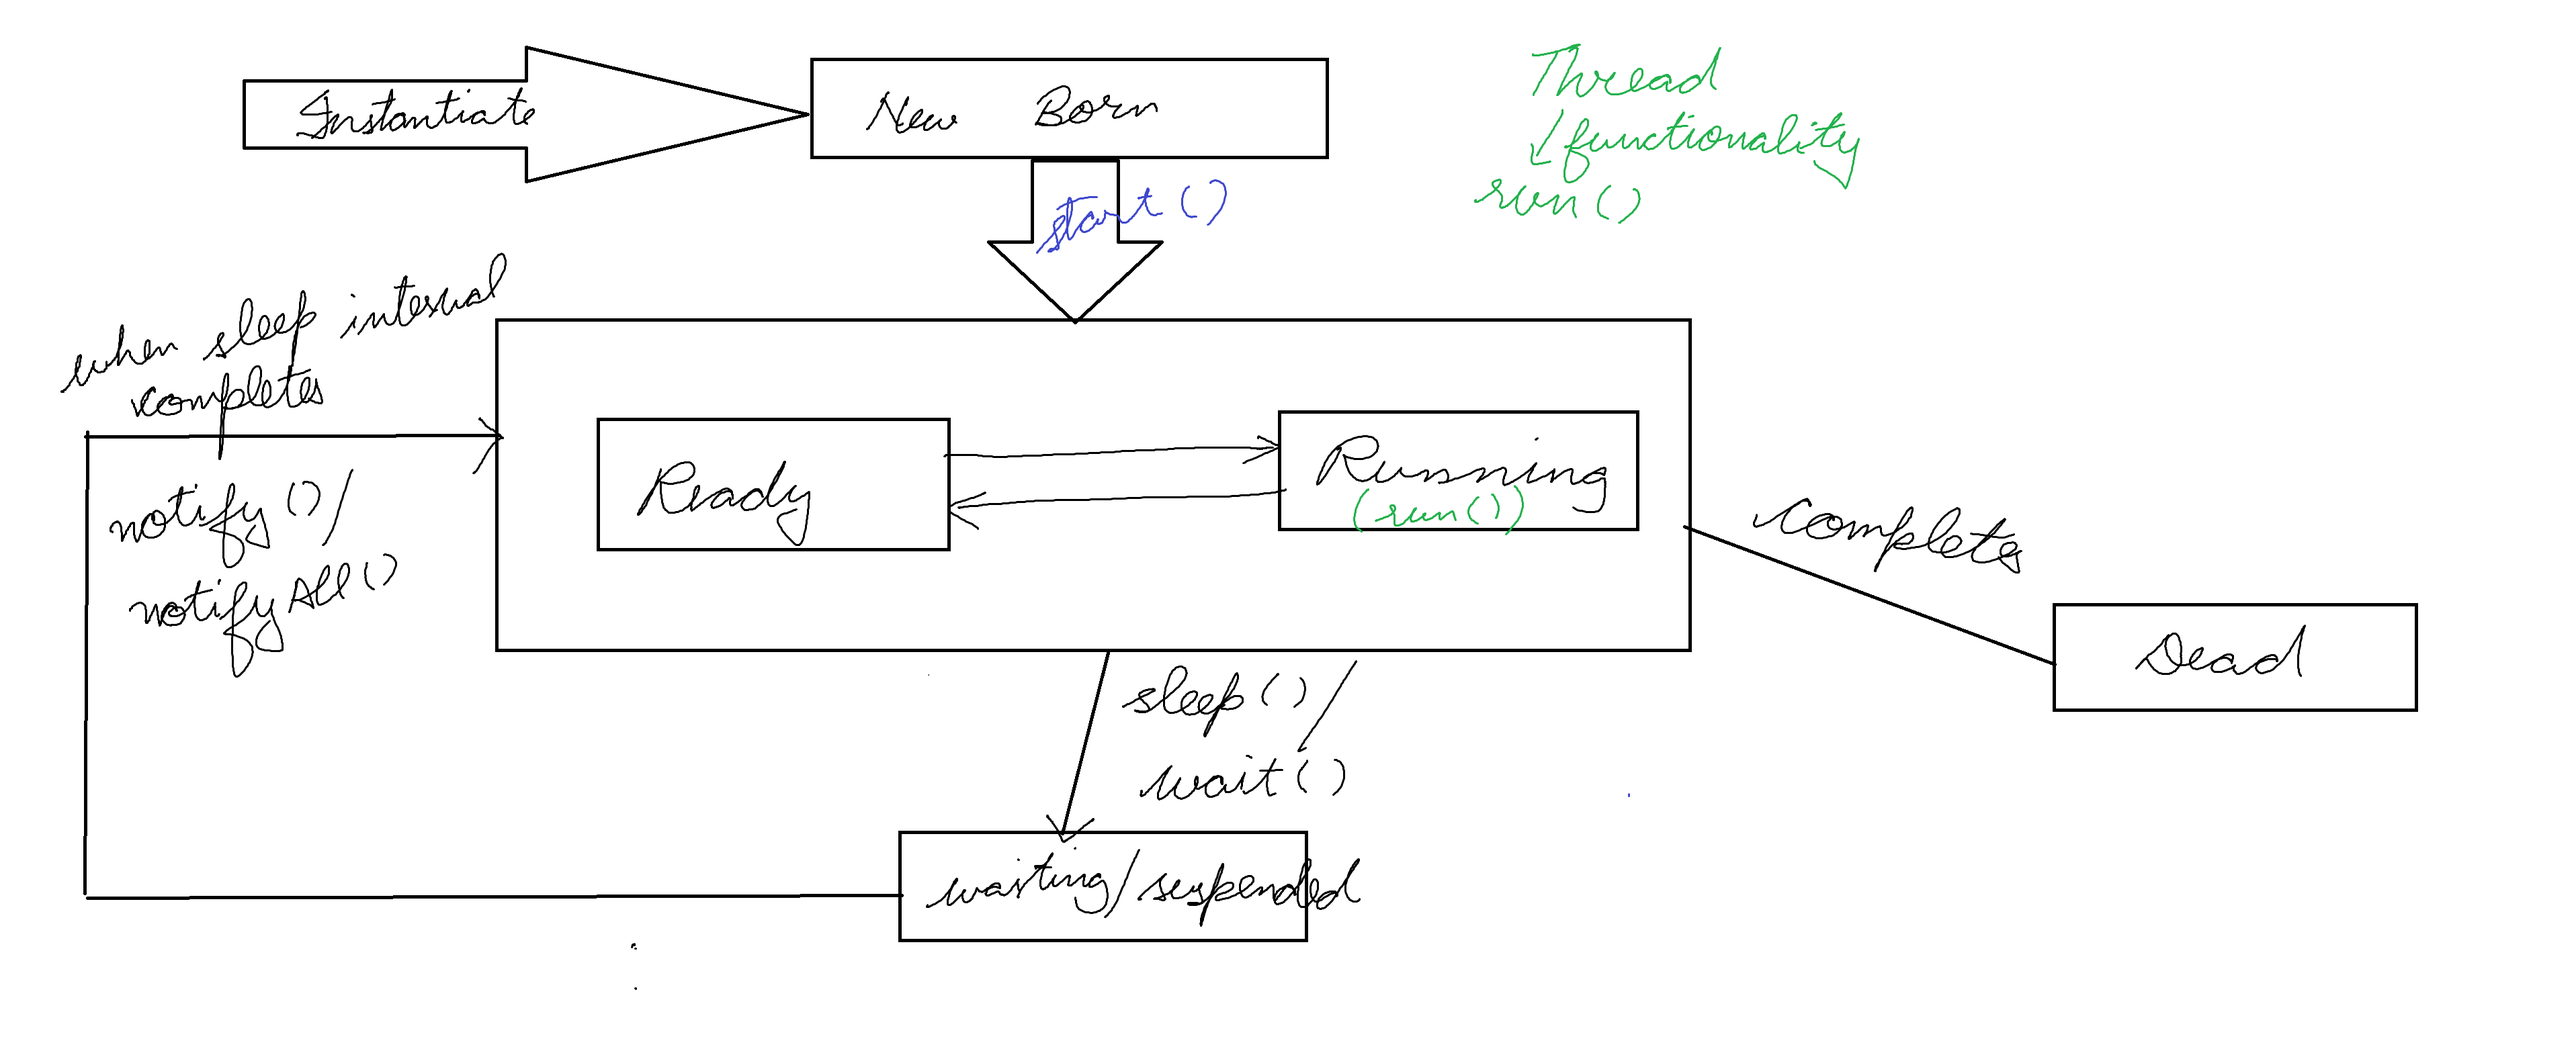
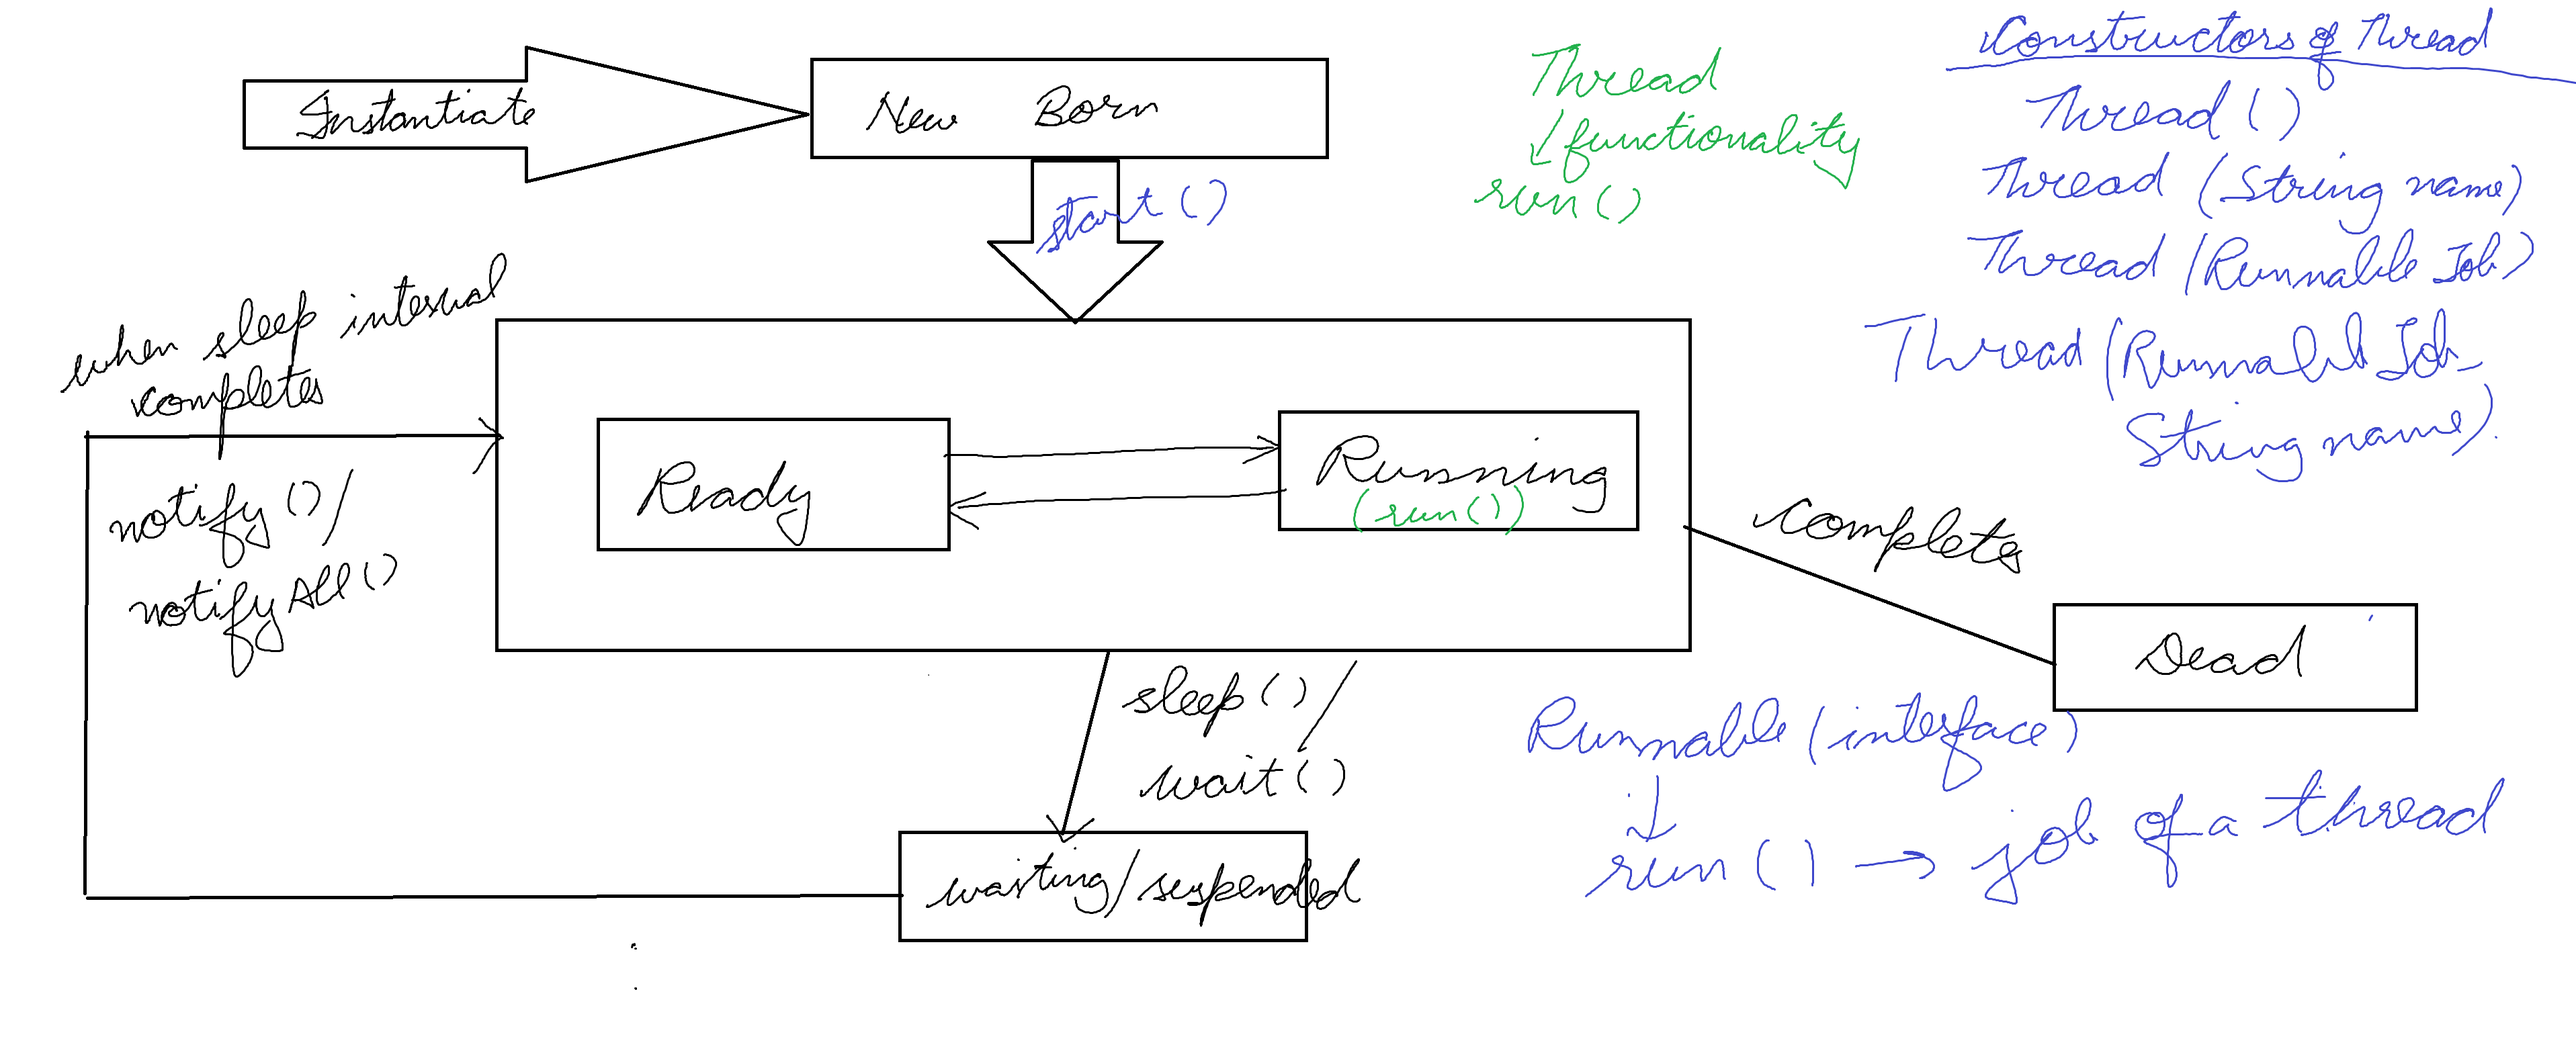
Add files via upload

diff --git a/Day4/MyThreadDemoProject/src/com/sujata/demo/AccountMain.java b/Day4/MyThreadDemoProject/src/com/sujata/demo/AccountMain.java
@@ -1,0 +1,46 @@
+package com.sujata.demo;
+
+class Account implements Runnable {
+
+	private static int balance = 1000;
+
+	@Override
+	public void run() {
+		// Object level locking
+//		synchronized (this) {
+		//class level locking
+			synchronized (Account.class) {
+			if (balance >= 800) {
+				System.out.println(Thread.currentThread().getName()
+						+ " you have sufficient balance to withdraw and your balance is Rs." + balance);
+				try {
+					Thread.sleep(2000);
+				} catch (InterruptedException e) {
+					e.printStackTrace();
+				}
+				balance = balance - 800;
+				System.out.println(Thread.currentThread().getName() + " your balance after withdrawl is Rs." + balance);
+			} else {
+				System.out.println(Thread.currentThread().getName()
+						+ " you don't have sufficient balance to withdraw and your balance is Rs." + balance);
+			}
+
+		}
+	}
+
+}
+
+public class AccountMain {
+
+	public static void main(String[] args) {
+		Account a001 = new Account();
+//		Account a002 = new Account();
+		Thread yash = new Thread(a001, "Yash");
+		Thread kajal = new Thread(a001, "Kajal");
+
+		yash.start();
+		kajal.start();
+
+	}
+
+}

diff --git a/Day4/MyThreadDemoProject/src/com/sujata/demo/MyThreadThreadDemo.java b/Day4/MyThreadDemoProject/src/com/sujata/demo/MyThreadThreadDemo.java
@@ -1,0 +1,50 @@
+package com.sujata.demo;
+
+class ThirdThread extends Thread{
+	
+	public ThirdThread() {
+//		super();
+	}
+	public ThirdThread(String name) {
+		super(name);
+	}
+	public void run() {
+		for(int i=1;i<=5;i++) {
+			System.out.println(Thread.currentThread().getName()+" i : "+i);
+		}
+		System.out.println("Good Bye from "+Thread.currentThread().getName());
+	}
+}
+public class MyThreadThreadDemo {
+
+	public static void main(String[] args) {
+		
+		//New Born
+		ThirdThread thread1=new ThirdThread(); 
+		ThirdThread thread2=new ThirdThread(); 
+		ThirdThread thread3=new ThirdThread(); 
+		ThirdThread thread4=new ThirdThread(); 
+		ThirdThread thread5=new ThirdThread(); 
+		
+		
+		//thread moves from new born state -> ready or running
+		thread1.start();
+		thread2.start();
+		thread3.start();
+		thread4.start();
+		thread5.start();
+		
+		
+		for(int i=1;i<=5;i++) {
+			System.out.println(Thread.currentThread().getName()+" i : "+i);
+		}
+		try {
+			thread2.join();
+		} catch (InterruptedException e) {
+			e.printStackTrace();
+		}
+		System.out.println("Good Bye from "+Thread.currentThread().getName());
+
+	}
+
+}

diff --git a/Day4/MyThreadDemoProject/src/com/sujata/demo/MyFourthThreadDemo.java b/Day4/MyThreadDemoProject/src/com/sujata/demo/MyFourthThreadDemo.java
@@ -1,0 +1,53 @@
+package com.sujata.demo;
+
+
+class InputNumber
+{
+	private int number;
+
+	public int getNumber() {
+		return number;
+	}
+
+	public void setNumber(int number) {
+		this.number = number;
+	}
+	
+}
+
+class Reverse extends InputNumber implements Runnable{
+	private int reverse;
+
+	public Reverse(int number) {
+		setNumber(number);
+	}
+	public int getReverse() {
+		int no=getNumber();
+		while(no!=0) {
+			int remainder=no%10;
+			reverse=reverse*10+remainder;
+			no=no/10;
+		}
+		return reverse;
+	}
+	//Job of a thread
+	@Override
+	public void run() {
+		int reverse=getReverse();
+		System.out.println(Thread.currentThread().getName()+" calculated reverse : "+reverse);
+		
+	}
+	
+	
+}
+public class MyFourthThreadDemo {
+
+	public static void main(String args[]) {
+		//No Thread Characterstick but only the job of a thread
+		Reverse reverseJob=new Reverse(5674);
+		
+		Thread thread1=new Thread(reverseJob,"ReverseThread");
+		
+		thread1.start();
+	}
+}
